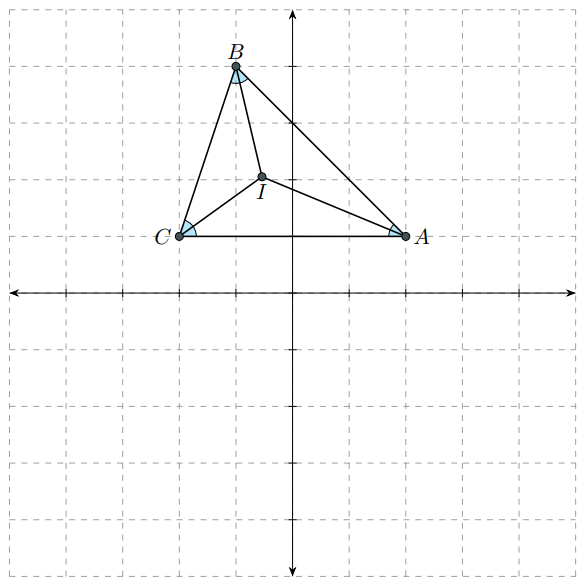
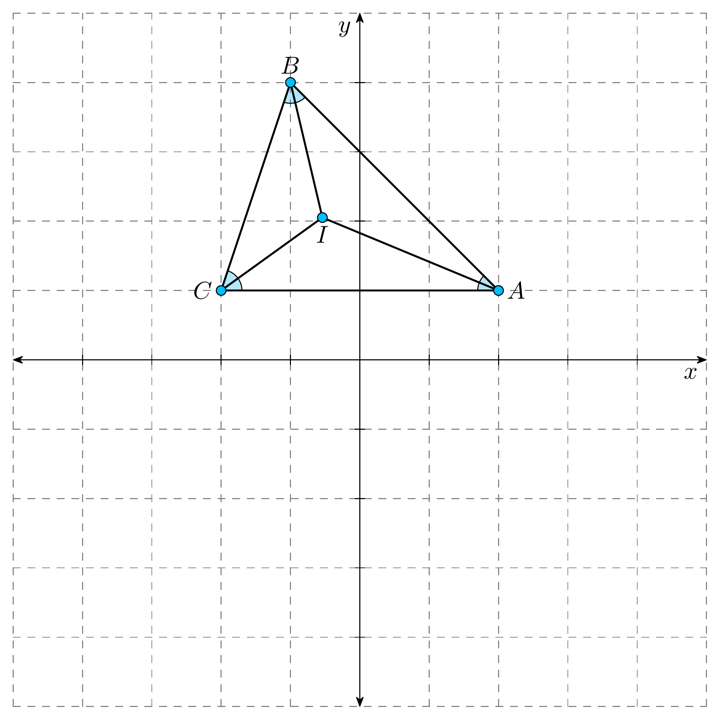
updated `README.md`

diff --git a/doc/example_usage_files/triangle.py b/doc/example_usage_files/triangle.py
@@ -12,16 +12,23 @@ I=bisector1.intersection(bisector2)
 # intersection of bisector1 and bisector2
 # I is the incenter of trinagle ABC
 
-tikz=Tikz('triangle.tex')
+tikz=Tikz('triangle.tex', preamble=tikz_config.standalone)
+
+tikz.usepackage('ifthen')
 
 tikz.begin('document')
 tikz.begin('tikzpicture')
 
-tikz.draw_grid(x_range=[-5,5], y_range=[-5,5])
-tikz.draw_axis(x_range=[-5,5], y_range=[-5,5])
+tikz.draw_grid(x_range=[-5,5],
+               y_range=[-5,5],
+               color='Black!50')
+
+tikz.draw_axis(x_range=[-5,5], 
+               y_range=[-5,5],
+               tick_labels=None)
 
 tikz.draw_angle(A,C,B, radius=0.3)
-tikz.draw_angle(A,B,C, radius=0.3)
+tikz.draw_angle(C,B,A, radius=0.3)
 tikz.draw_angle(B,A,C, radius=0.3)
 
 tikz.draw_path(A,B,C,cycle=True)

diff --git a/README.md b/README.md
@@ -29,16 +29,23 @@ I=bisector1.intersection(bisector2)
 # intersection of bisector1 and bisector2
 # I is the incenter of trinagle ABC
 
-tikz=Tikz('triangle.tex')
+tikz=Tikz('triangle.tex', preamble=tikz_config.standalone)
+
+tikz.usepackage('ifthen')
 
 tikz.begin('document')
 tikz.begin('tikzpicture')
 
-tikz.draw_grid(x_range=[-5,5], y_range=[-5,5])
-tikz.draw_axis(x_range=[-5,5], y_range=[-5,5])
+tikz.draw_grid(x_range=[-5,5],
+               y_range=[-5,5],
+               color='Black!50')
+
+tikz.draw_axis(x_range=[-5,5], 
+               y_range=[-5,5],
+               tick_labels=None)
 
 tikz.draw_angle(A,C,B, radius=0.3)
-tikz.draw_angle(A,B,C, radius=0.3)
+tikz.draw_angle(C,B,A, radius=0.3)
 tikz.draw_angle(B,A,C, radius=0.3)
 
 tikz.draw_path(A,B,C,cycle=True)
